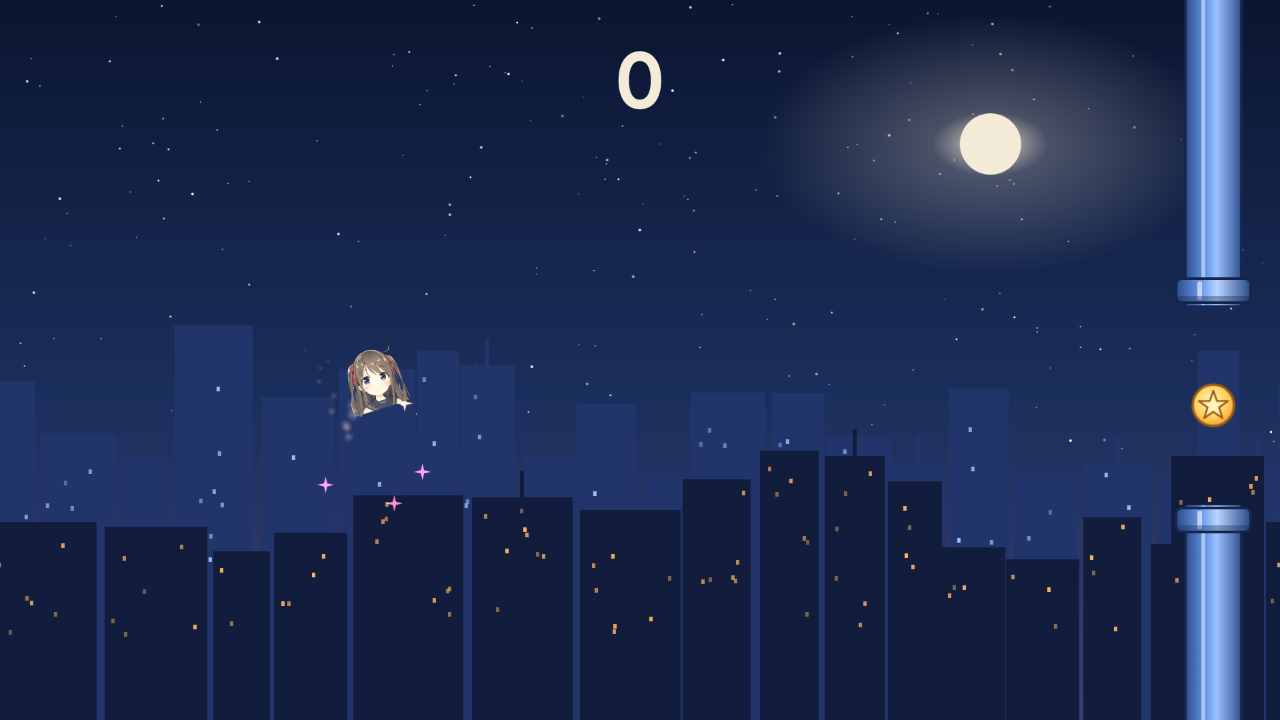
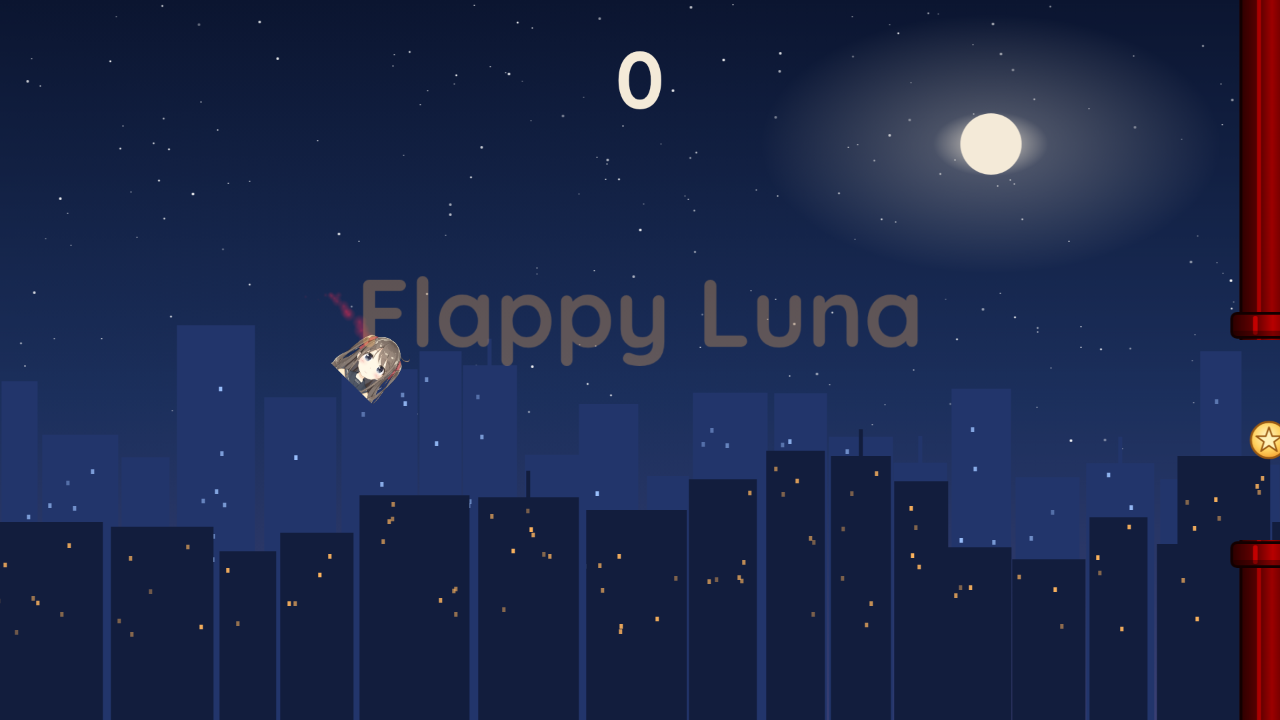
Publish flappy-bird-game-luna-bird-tap-or-sp-f727 (requested by @MathUnlockedYT)

diff --git a/games/flappy-bird-game-luna-bird-tap-or-sp-f727/index.html b/games/flappy-bird-game-luna-bird-tap-or-sp-f727/index.html
@@ -17,12 +17,12 @@ const SETTINGS = {
   player: "../../assets/characters/luna-head.png", 
   playerHeight: 92,                           
   gap: 300,                                   
-  speed: 300,                                 
+  speed: 400,                                 // Increased speed
   gravity: 1500,
   flap: -560,
   pipeEvery: 1.55,                            
   skill: 0.85,                                
-  accent: 0xffb55e,
+  accent: 0xff0000, // Changed to red color for pipes
 };
 
 class Play extends Phaser.Scene {
@@ -102,11 +102,11 @@ class Play extends Phaser.Scene {
     const top = this.add.container(x, 0);
     const bottom = this.add.container(x, 0);
     const half = SETTINGS.gap / 2;
-    const topBody = this.add.tileSprite(0, (gapY - half) / 2, 96, gapY - half, "pipe");
-    const topCap = this.add.image(0, gapY - half - 22, "cap");
+    const topBody = this.add.tileSprite(0, (gapY - half) / 2, 96, gapY - half, "pipe").setTint(SETTINGS.accent); // Changed the tint to red
+    const topCap = this.add.image(0, gapY - half - 22, "cap").setTint(SETTINGS.accent); // Changed the tint to red
     const botH = 1080 - (gapY + half);
-    const botBody = this.add.tileSprite(0, gapY + half + botH / 2, 96, botH, "pipe");
-    const botCap = this.add.image(0, gapY + half + 22, "cap");
+    const botBody = this.add.tileSprite(0, gapY + half + botH / 2, 96, botH, "pipe").setTint(SETTINGS.accent); // Changed the tint to red
+    const botCap = this.add.image(0, gapY + half + 22, "cap").setTint(SETTINGS.accent); // Changed the tint to red
     top.add([topBody, topCap]);
     bottom.add([botBody, botCap]);
     this.pipes.push({ top, bottom, x, gapY, scored: false });
